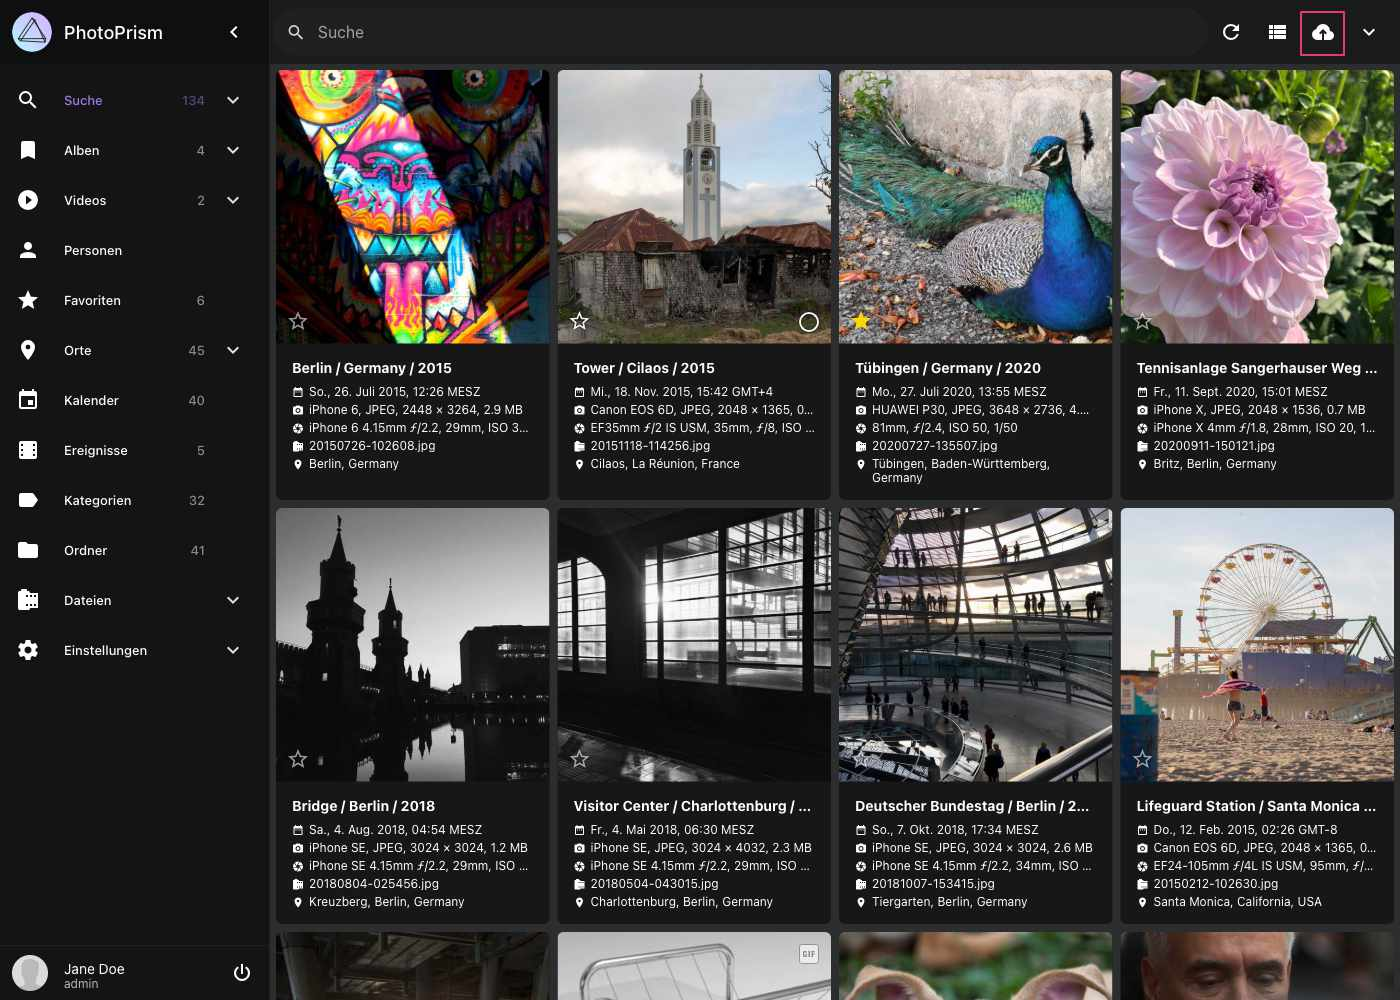
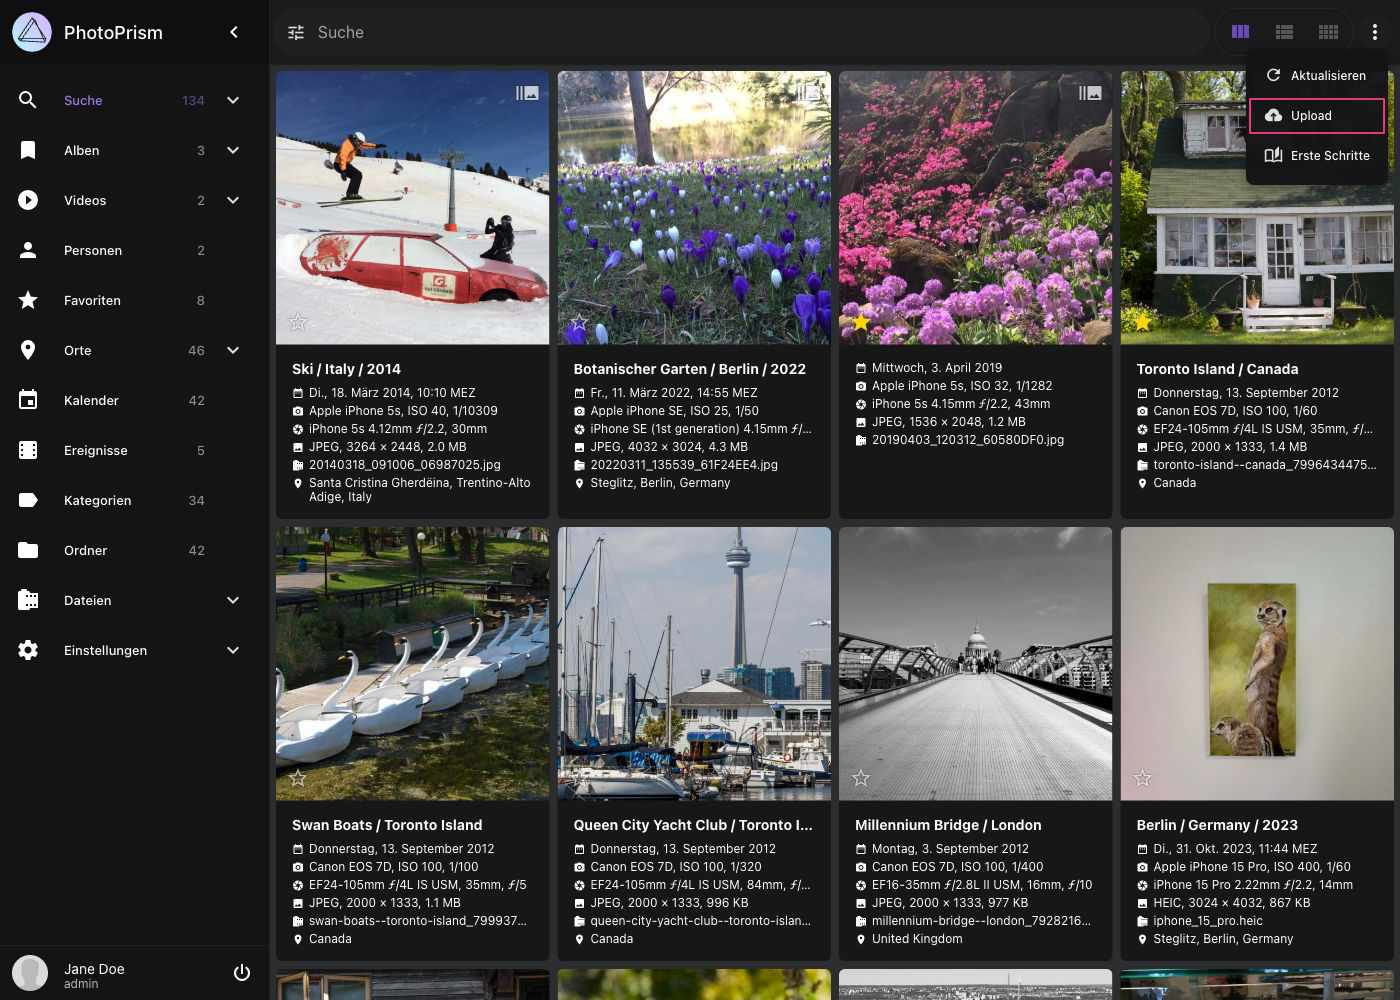
User Guide: Update screenshots in upload.md

diff --git a/docs/user-guide/library/upload.md b/docs/user-guide/library/upload.md
@@ -2,7 +2,9 @@
 
 === "Über Suchleiste"
 
-    1. Klicke :material-cloud-upload: in der oberen rechten Ecke
+    1. Klicke auf :material-dots-vertical: in der oberen rechten Ecke
+
+    2. Klicke :material-cloud-upload: 
 
          ![Screenshot](img/upload-3-2503-german.jpg){ class="shadow" }
     
